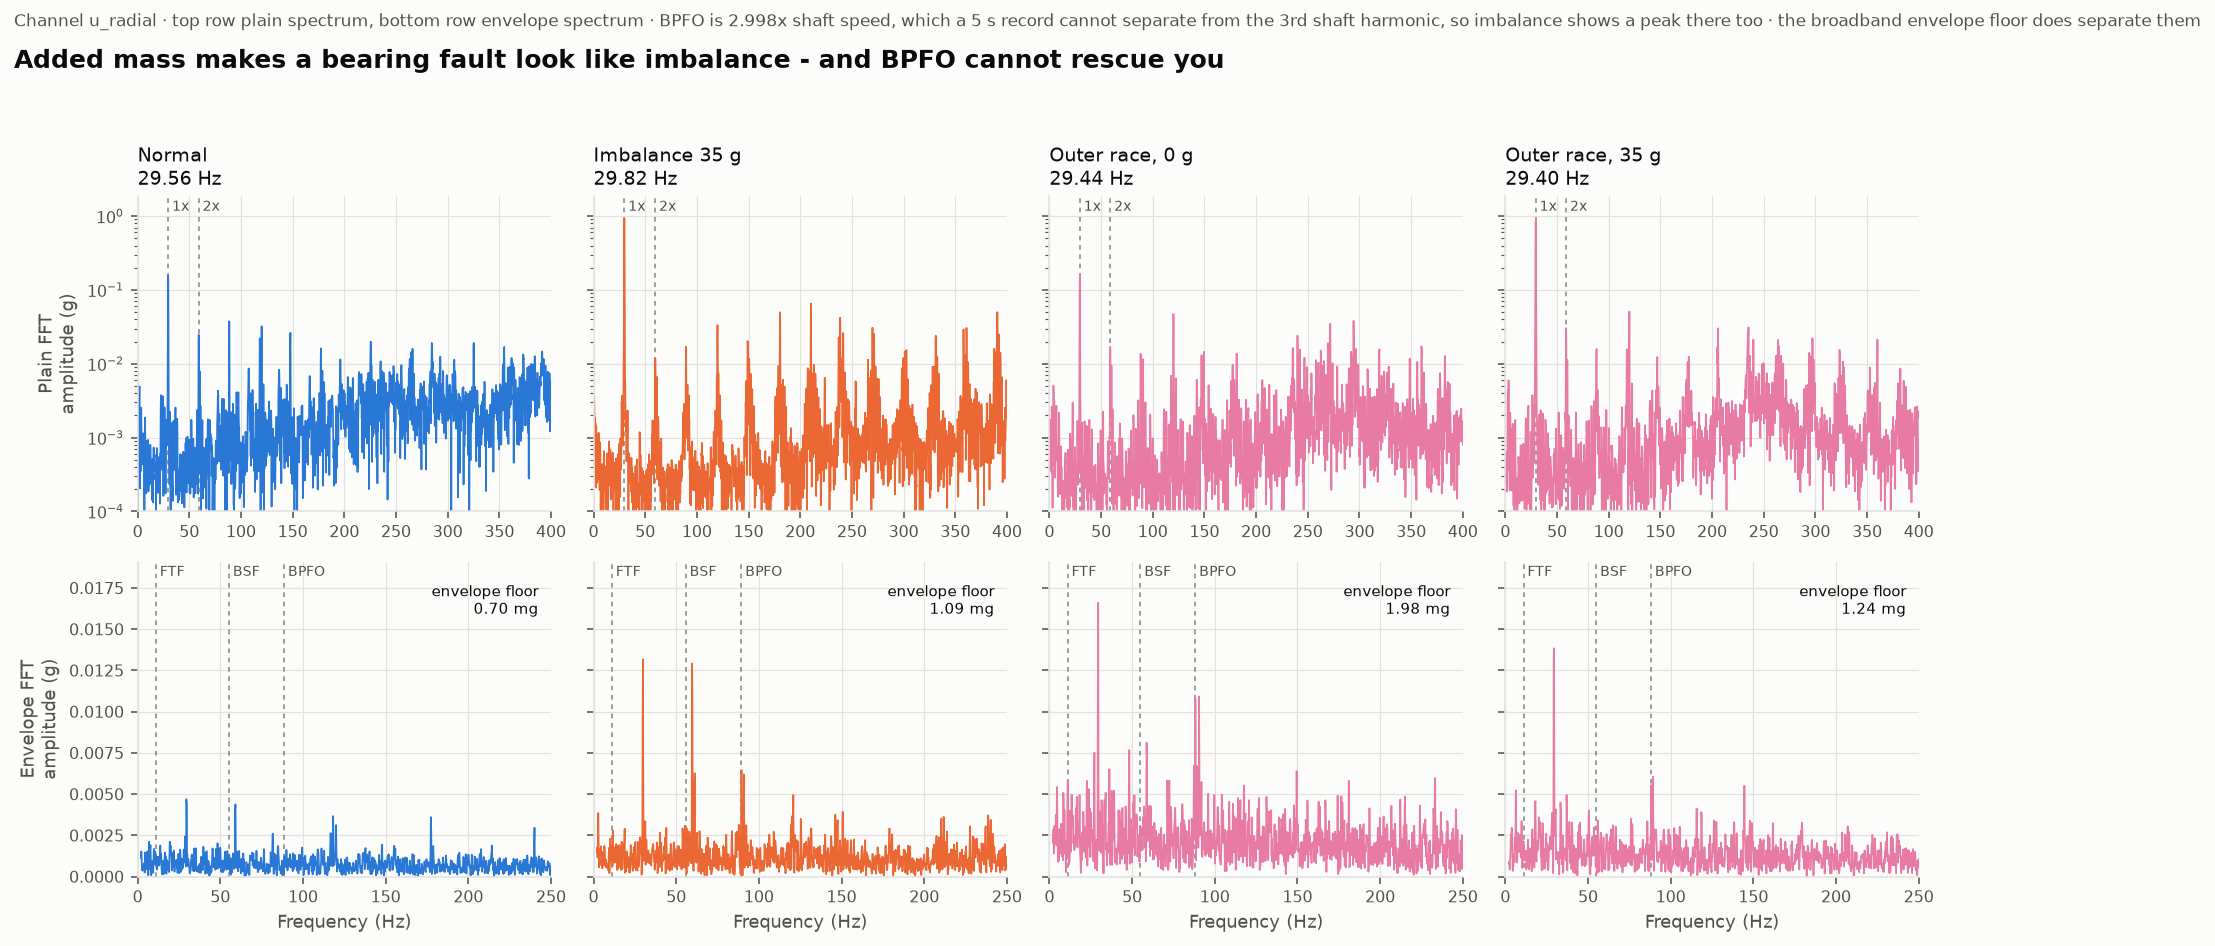
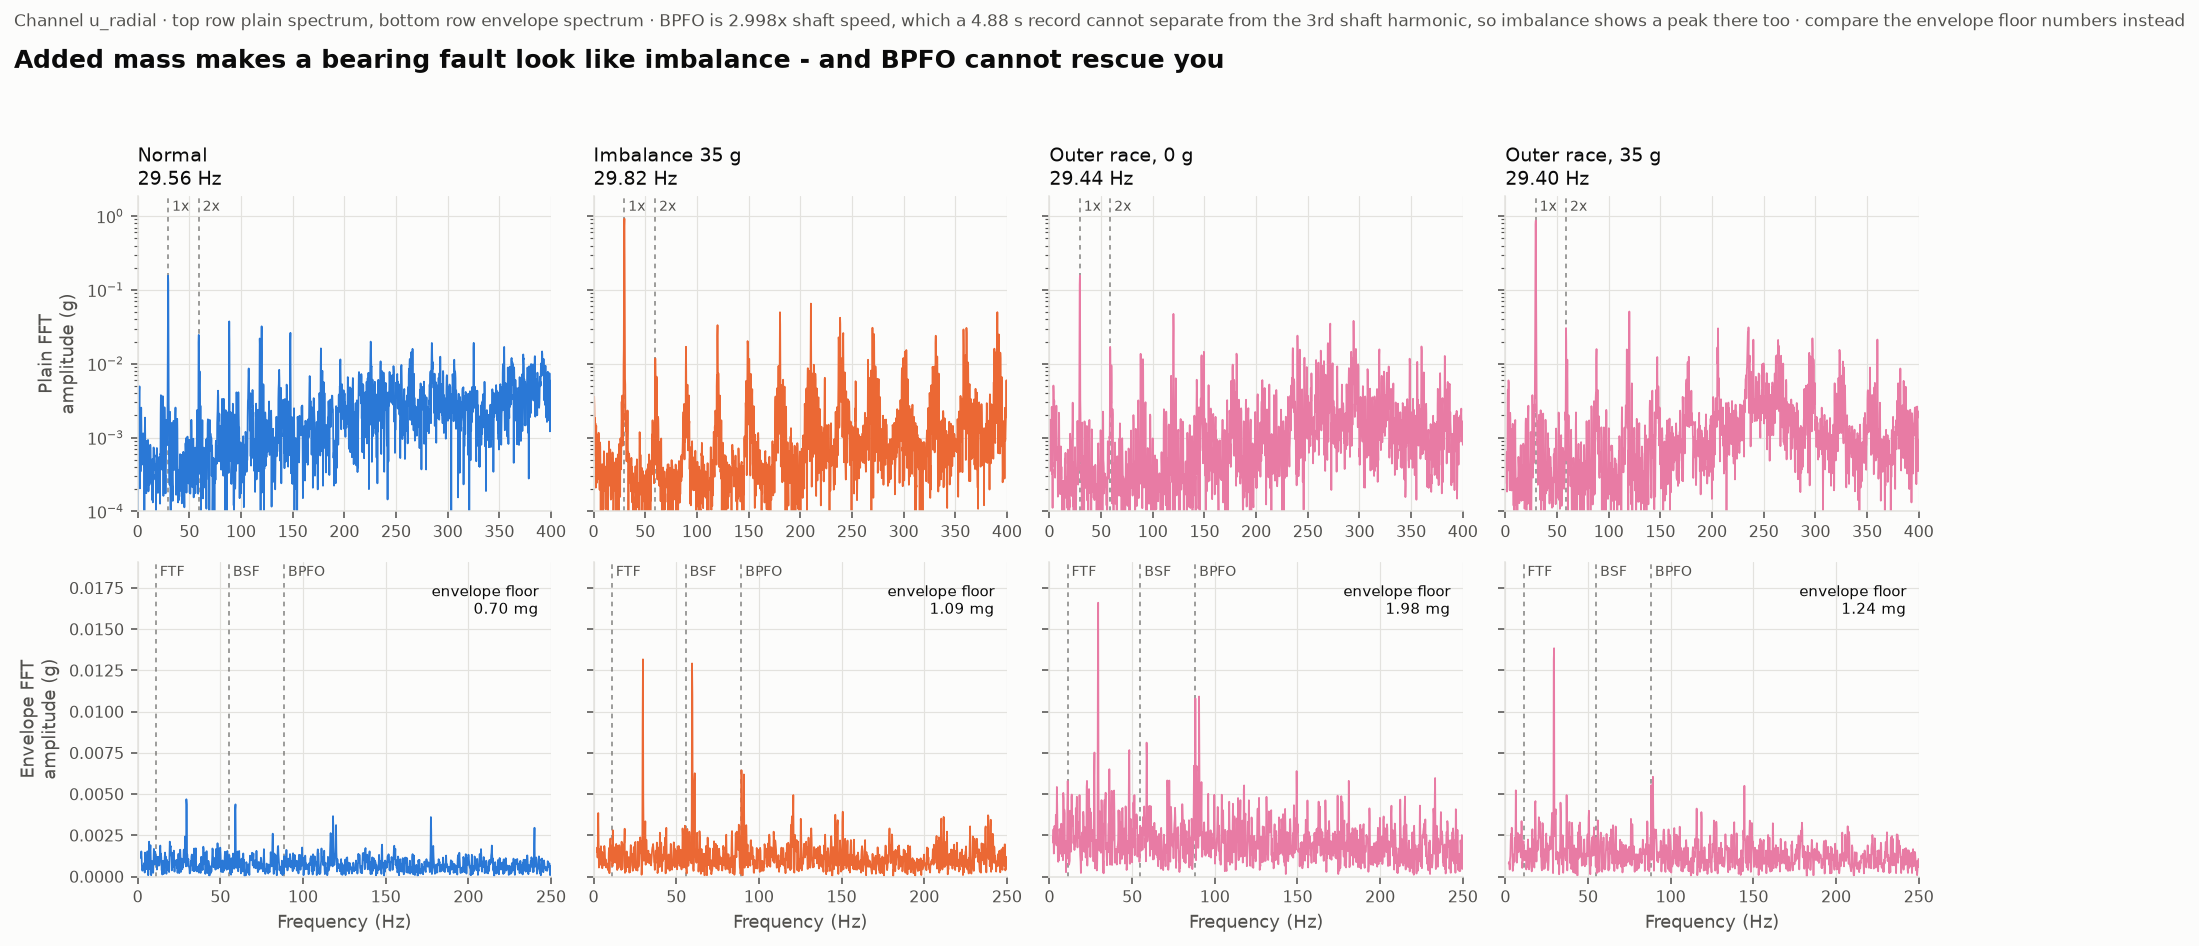
fix(eda): correct the record length in the imbalance-trap caption
คำบรรยายรูป 05 ยังเขียนว่า "a 5 s record" ซึ่งเป็นค่าเดิมก่อนพบว่า
sampling rate จริงคือ 51,200 Hz ความยาวจริงคือ 4.8828 วินาที

แก้ข้อความแล้วสร้างรูปใหม่ ตัวเลขและข้อสรุปในรูปไม่เปลี่ยน เพราะข้อจำกัด
เรื่อง BPFO ทับฮาร์มอนิกที่ 3 มาจากอัตราส่วน 2.998 ต่อ 3.000 ไม่ได้มาจาก
ความยาวไฟล์

diff --git a/src/viz/make_eda_report.py b/src/viz/make_eda_report.py
@@ -376,8 +376,8 @@ def fig_imbalance_trap(index: pd.DataFrame, target_hz: float) -> Path:
         fig,
         "Added mass makes a bearing fault look like imbalance - and BPFO cannot rescue you",
         f"Channel {MAIN_CH} · top row plain spectrum, bottom row envelope spectrum · "
-        "BPFO is 2.998x shaft speed, which a 5 s record cannot separate from the 3rd shaft "
-        "harmonic, so imbalance shows a peak there too · the broadband envelope floor does separate them",
+        "BPFO is 2.998x shaft speed, which a 4.88 s record cannot separate from the 3rd shaft "
+        "harmonic, so imbalance shows a peak there too · compare the envelope floor numbers instead",
     )
     fig.tight_layout(rect=(0, 0, 1, 0.95))
     path = OUT / "05-imbalance-trap.png"
